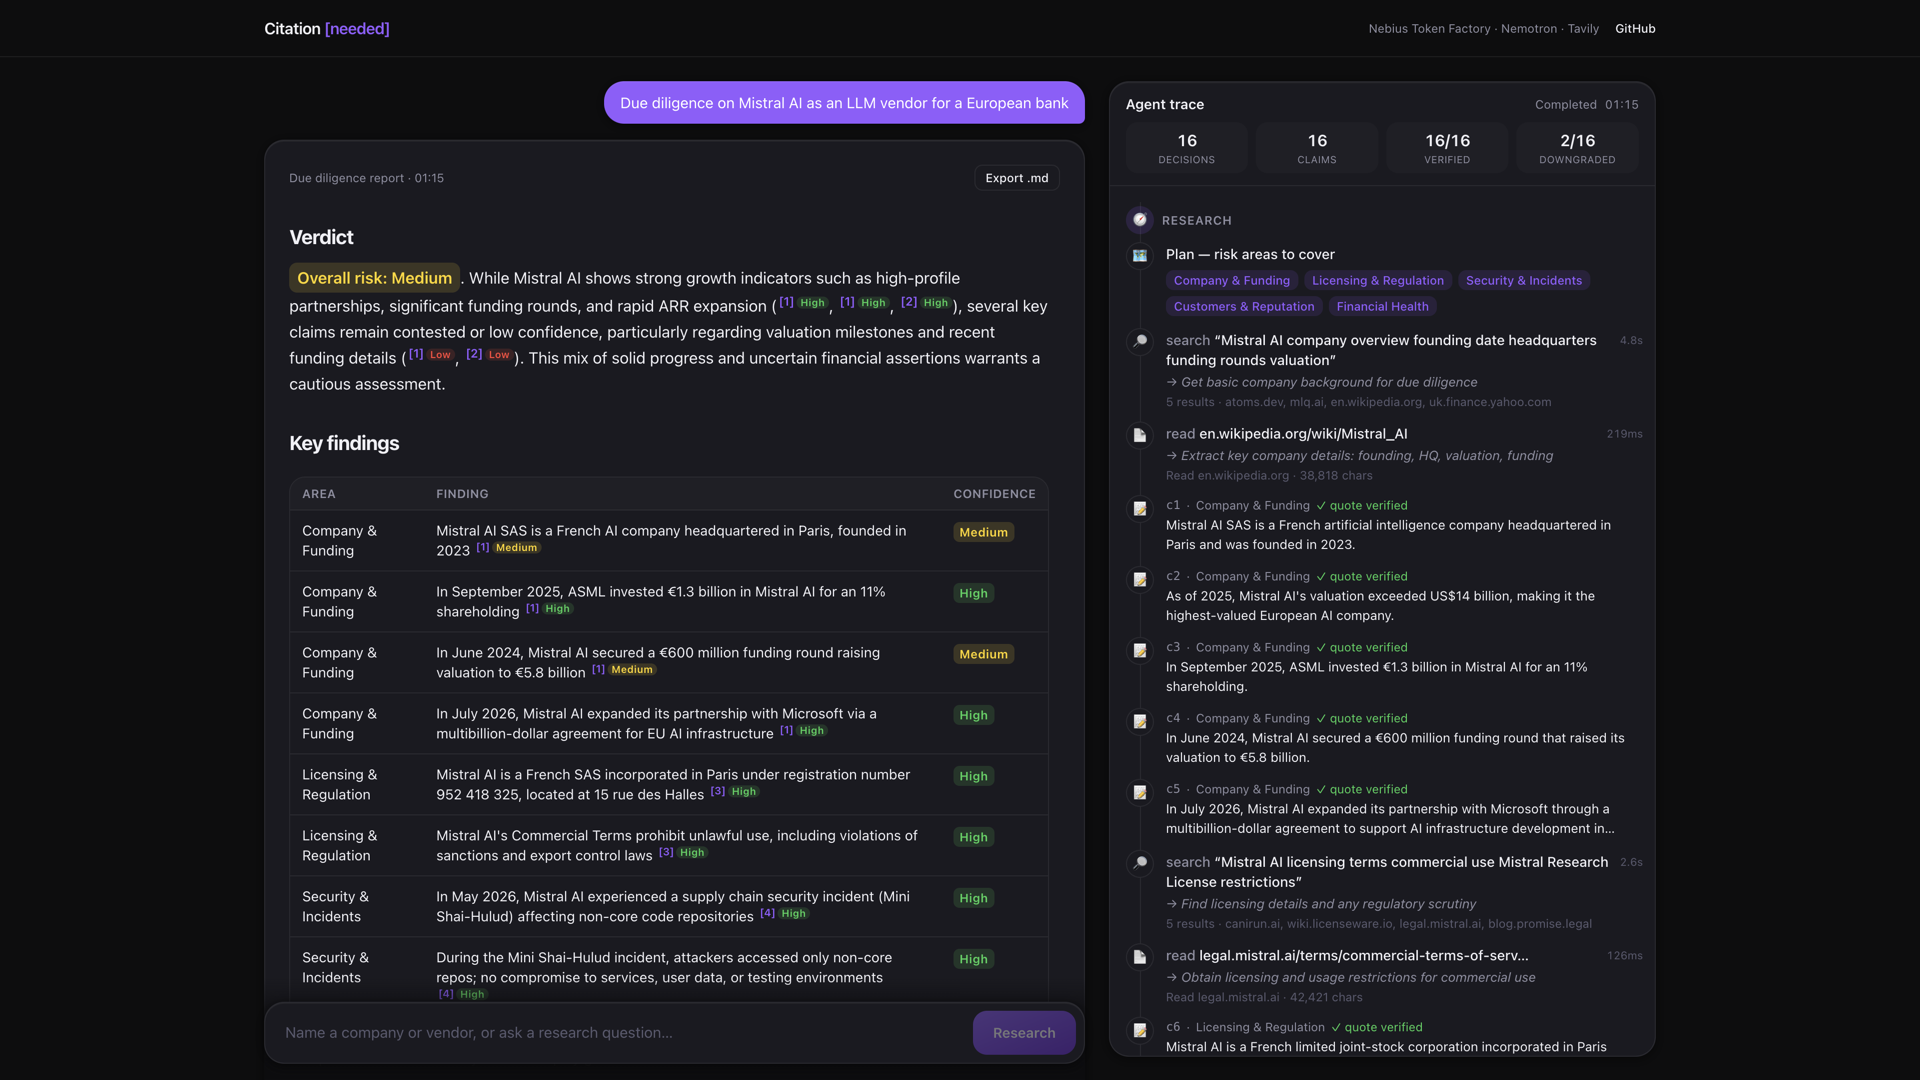
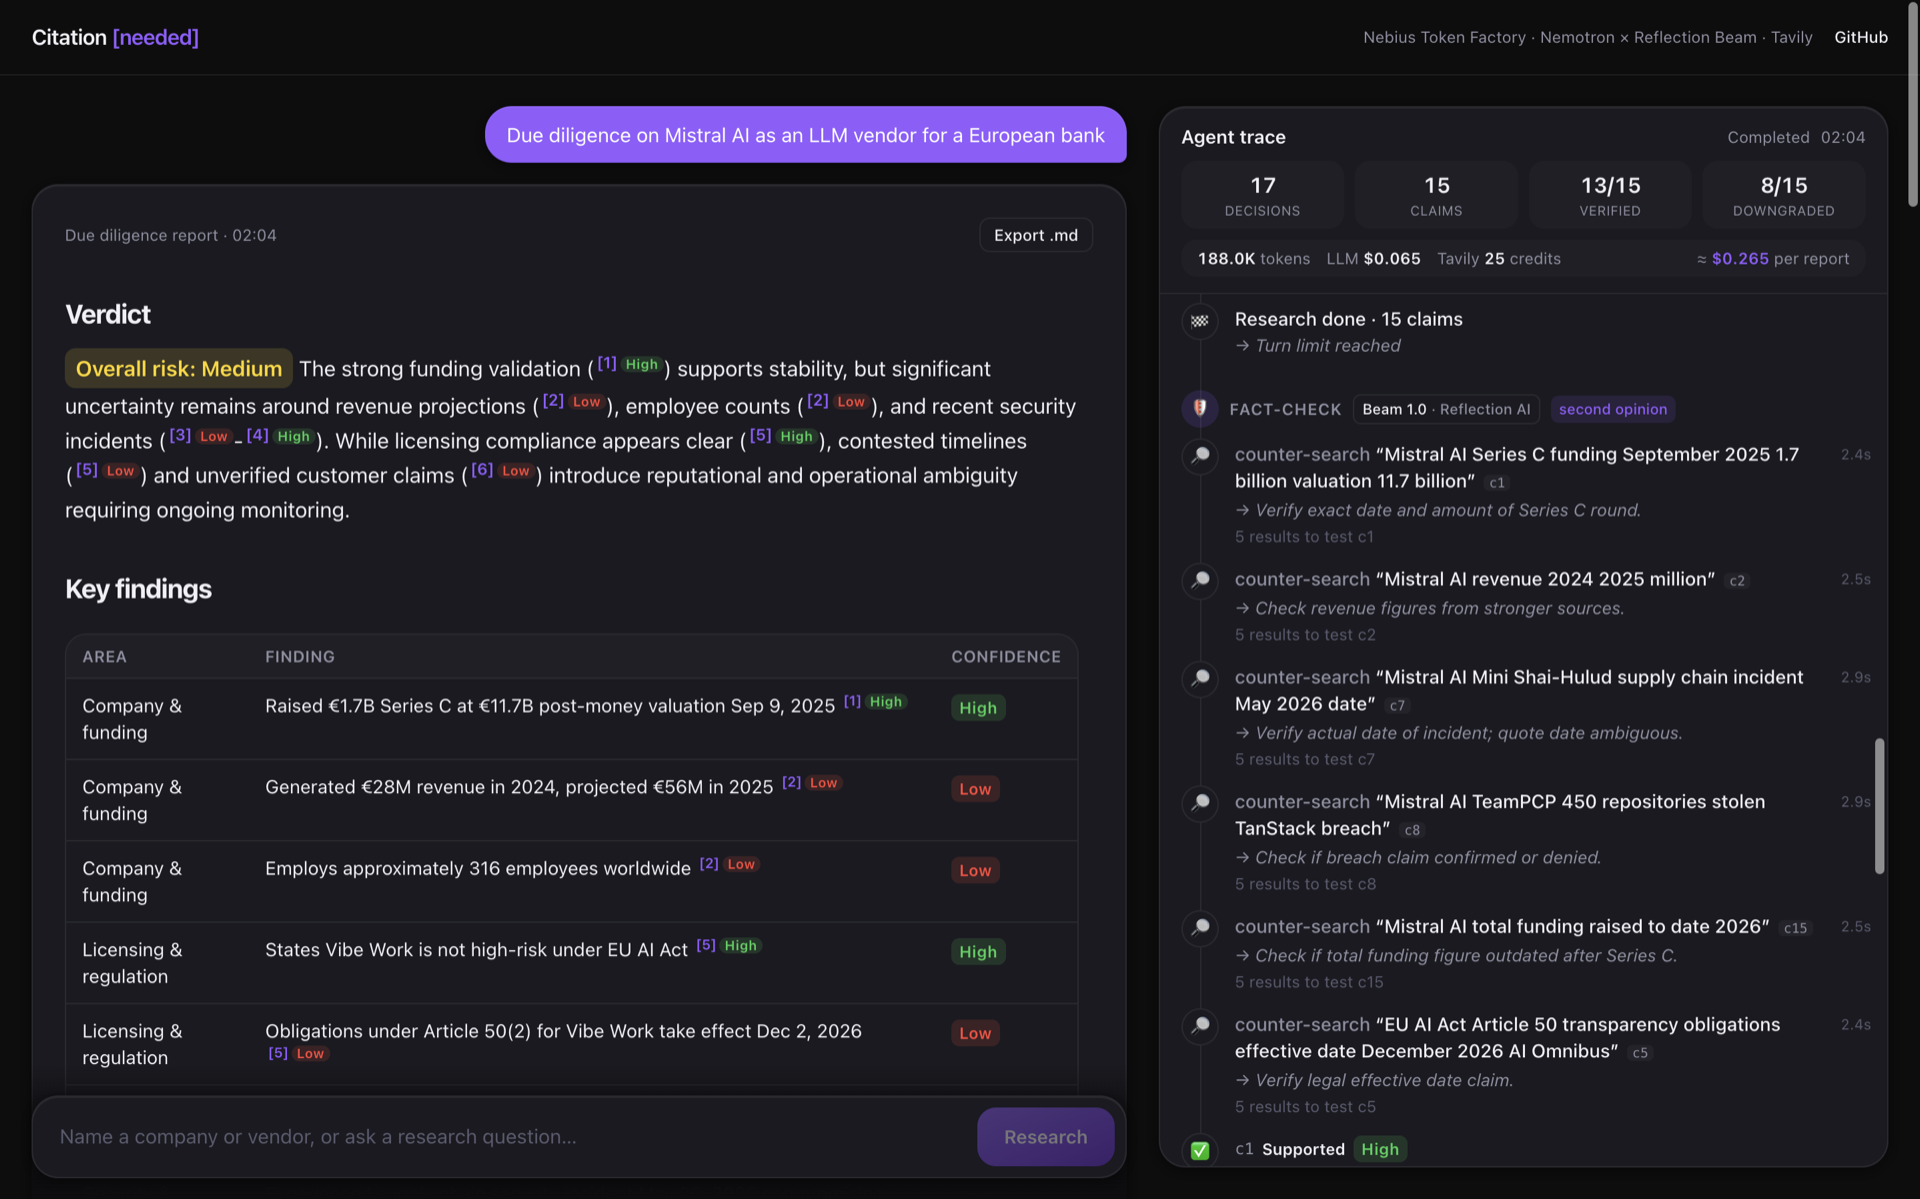
README: cross-lab fact-checker, adverse media and cost meter; new screenshots

diff --git a/apps/web/src/components/RunStats.tsx b/apps/web/src/components/RunStats.tsx
@@ -65,7 +65,7 @@ export function RunStats({ stats }: { stats: Stats }) {
               className="flex flex-wrap items-center justify-between gap-x-4 gap-y-0.5 border-b border-line px-3 py-2 text-xs last:border-b-0"
             >
               <span className="flex items-center gap-2">
-                <span className="w-16 font-medium text-muted">{ROLE_LABEL[role]}</span>
+                <span className="w-20 font-medium text-muted">{ROLE_LABEL[role]}</span>
                 <span className="font-medium text-fg">{model.name}</span>
                 {model.lab && <span className="text-subtle">{model.lab}</span>}
               </span>

diff --git a/README.md b/README.md
@@ -5,7 +5,11 @@
 - **Live demo:** https://citation-needed.kurdyukov-leo-ger.workers.dev (a run takes about 1–2 minutes; 5 runs per minute per IP)
 - **Demo video:** _TBD_
 
-![Report with claim-level citations and confidence badges next to the live agent trace](docs/screenshot.png)
+![Report with claim-level citations and confidence badges next to the live agent trace; Reflection Beam runs counter-searches as a second opinion while the meter shows tokens and cost](docs/screenshot.png)
+
+Run stats with the cost of the report per model, next to the fact-checker's verdicts:
+
+![Run stats: 188K tokens, $0.065 of LLM calls, $0.265 in total, split by Nemotron (research, writer) and Beam (fact-check)](docs/run-stats.png)
 
 Clicking a citation opens the source scrolled to the highlighted quote:
 
